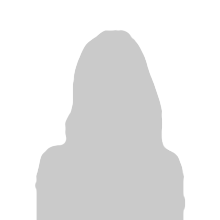
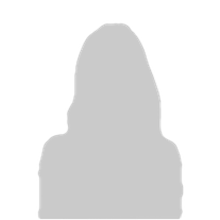
closer fidelity to placeholder image, label, design

diff --git a/app/controllers/sitter_circle_controller.rb b/app/controllers/sitter_circle_controller.rb
@@ -1,3 +1,6 @@
+KEYNOTE_SHADOW_OFFSET_RATIO = 0.5
+KEYNOTE_SHADOW_RADIUS_RATIO = 0.25
+
 class SitterCircleController
   attr_accessor :view
   attr_accessor :sitter
@@ -18,9 +21,6 @@ class SitterCircleController
   def viewDidLoad
     @loaded = true
 
-    keynoteShadowRadiusRatio = 0.25
-    keynoteShadowOffsetRatio = 0.5
-
     view.layer.delegate = self
     view.layer.bounds = view.bounds
     view.layer.setNeedsDisplay
@@ -31,15 +31,15 @@ class SitterCircleController
 
     @ringLayer = CALayer.layer
     ringLayer.shadowColor = UIColor.blackColor.CGColor
-    ringLayer.shadowOffset = [0, 1 * keynoteShadowOffsetRatio]
-    ringLayer.shadowOpacity = 0.5
-    ringLayer.shadowRadius = 3 * keynoteShadowRadiusRatio
+    ringLayer.shadowOffset = [0, 1 * KEYNOTE_SHADOW_OFFSET_RATIO]
+    # ringLayer.shadowOpacity = 0.5
+    ringLayer.shadowRadius = 3 * KEYNOTE_SHADOW_RADIUS_RATIO
     view.layer.addSublayer ringLayer
 
     @numberLabelLayer = CALayer.layer
     numberLabelLayer.shadowColor = UIColor.blackColor.CGColor
-    numberLabelLayer.shadowOffset = [0, -3 * keynoteShadowOffsetRatio]
-    numberLabelLayer.shadowRadius = 2 * keynoteShadowRadiusRatio
+    numberLabelLayer.shadowOffset = [0, -3 * KEYNOTE_SHADOW_OFFSET_RATIO]
+    numberLabelLayer.shadowRadius = 2 * KEYNOTE_SHADOW_RADIUS_RATIO
     numberLabelLayer.shadowOpacity = 0.20
     view.layer.addSublayer numberLabelLayer
 
@@ -63,15 +63,17 @@ class SitterCircleController
   def layoutSublayersOfLayer(layer)
     center = [view.width / 2, view.height / 2]
 
-    sitterImageIngress = 0.09
+    imageIngress = 0.09
+    imageIngress = 0.15 if not sitter
     imageLayer.bounds = view.bounds
     imageLayer.position = center
-    imageLayer.contentsRect = [[-sitterImageIngress, -sitterImageIngress], [1 + 2 * sitterImageIngress, 1 + 2 * sitterImageIngress]]
-    # imageLayer.contentsGravity = KCAGravityCenter
+    imageLayer.contentsRect = [[-imageIngress, -imageIngress], [1 + 2 * imageIngress, 1 + 2 * imageIngress]]
+    imageLayer.backgroundColor = sitter ? UIColor.clearColor : 0xA5A5A5.uicolor.CGColor
+    imageLayer.cornerRadius = view.width / 2
+    # imageLayer.maskToBounds = true
 
     ringLayer.bounds = view.bounds
     ringLayer.position = center
-    # ringLayer.contentsGravity = KCAGravityCenter
 
     numberLabelLayer.bounds = view.bounds
     numberLabelLayer.position = center
@@ -82,6 +84,8 @@ class SitterCircleController
     return unless @loaded
     ringLayer.contents = ringLayerImage
     numberLabelLayer.contents = numberLayerImage
+    ringLayer.shadowOpacity = sitter ? 0.5 : 0
+    ringLayer.shadowRadius = sitter ? 3 * KEYNOTE_SHADOW_RADIUS_RATIO : 0
   end
 
   private
@@ -95,8 +99,8 @@ class SitterCircleController
     UIGraphicsBeginImageContextWithOptions bounds.size, false, 0
 
     sitterNameFont = UIFont.fontWithName('Helvetica-Bold', size:9)
-    sitterNameColor = sitter && !available ? 0xaaaaaa.uicolor : UIColor.blackColor
-    outerRingWidth = 10
+    sitterNameColor = available ? UIColor.blackColor : 0xaaaaaa.uicolor
+    outerRingWidth = 11
     sitterNameRadius = 36
 
     cx = cy = bounds.size.width / 2
@@ -134,7 +138,6 @@ class SitterCircleController
     end
 
     CGContextRestoreGState context
-
     layerImage = UIGraphicsGetImageFromCurrentImageContext()
     UIGraphicsEndImageContext()
     return layerImage.CGImage
@@ -149,13 +152,14 @@ class SitterCircleController
 
     numberLabelFont = UIFont.fontWithName('Helvetica', size:13)
     numberLabelColor = sitter ? UIColor.blackColor : 0xaaaaaa.uicolor
-    labelCircleRadius = 13
+    labelCircleRadius = 12
+    labelNameDeltaY = 4
 
-    CGContextAddArc context, cx, bounds.size.height - labelCircleRadius - 2, labelCircleRadius, 0, 2 * Math::PI, 0
+    CGContextAddArc context, cx, bounds.size.height - labelCircleRadius - 1, labelCircleRadius, 0, 2 * Math::PI, 0
     CGContextSetFillColorWithColor context, UIColor.whiteColor.CGColor
     CGContextFillPath context
 
-    labelRect = CGRectMake(0, bounds.size.height - 2 * labelCircleRadius + 2, bounds.size.width, 2 * labelCircleRadius)
+    labelRect = CGRectMake(0, bounds.size.height - 2 * labelCircleRadius + labelNameDeltaY, bounds.size.width, 2 * labelCircleRadius)
     labelString.drawInRect labelRect, withAttributes: {
       NSFontAttributeName => numberLabelFont,
       NSForegroundColorAttributeName => numberLabelColor,
